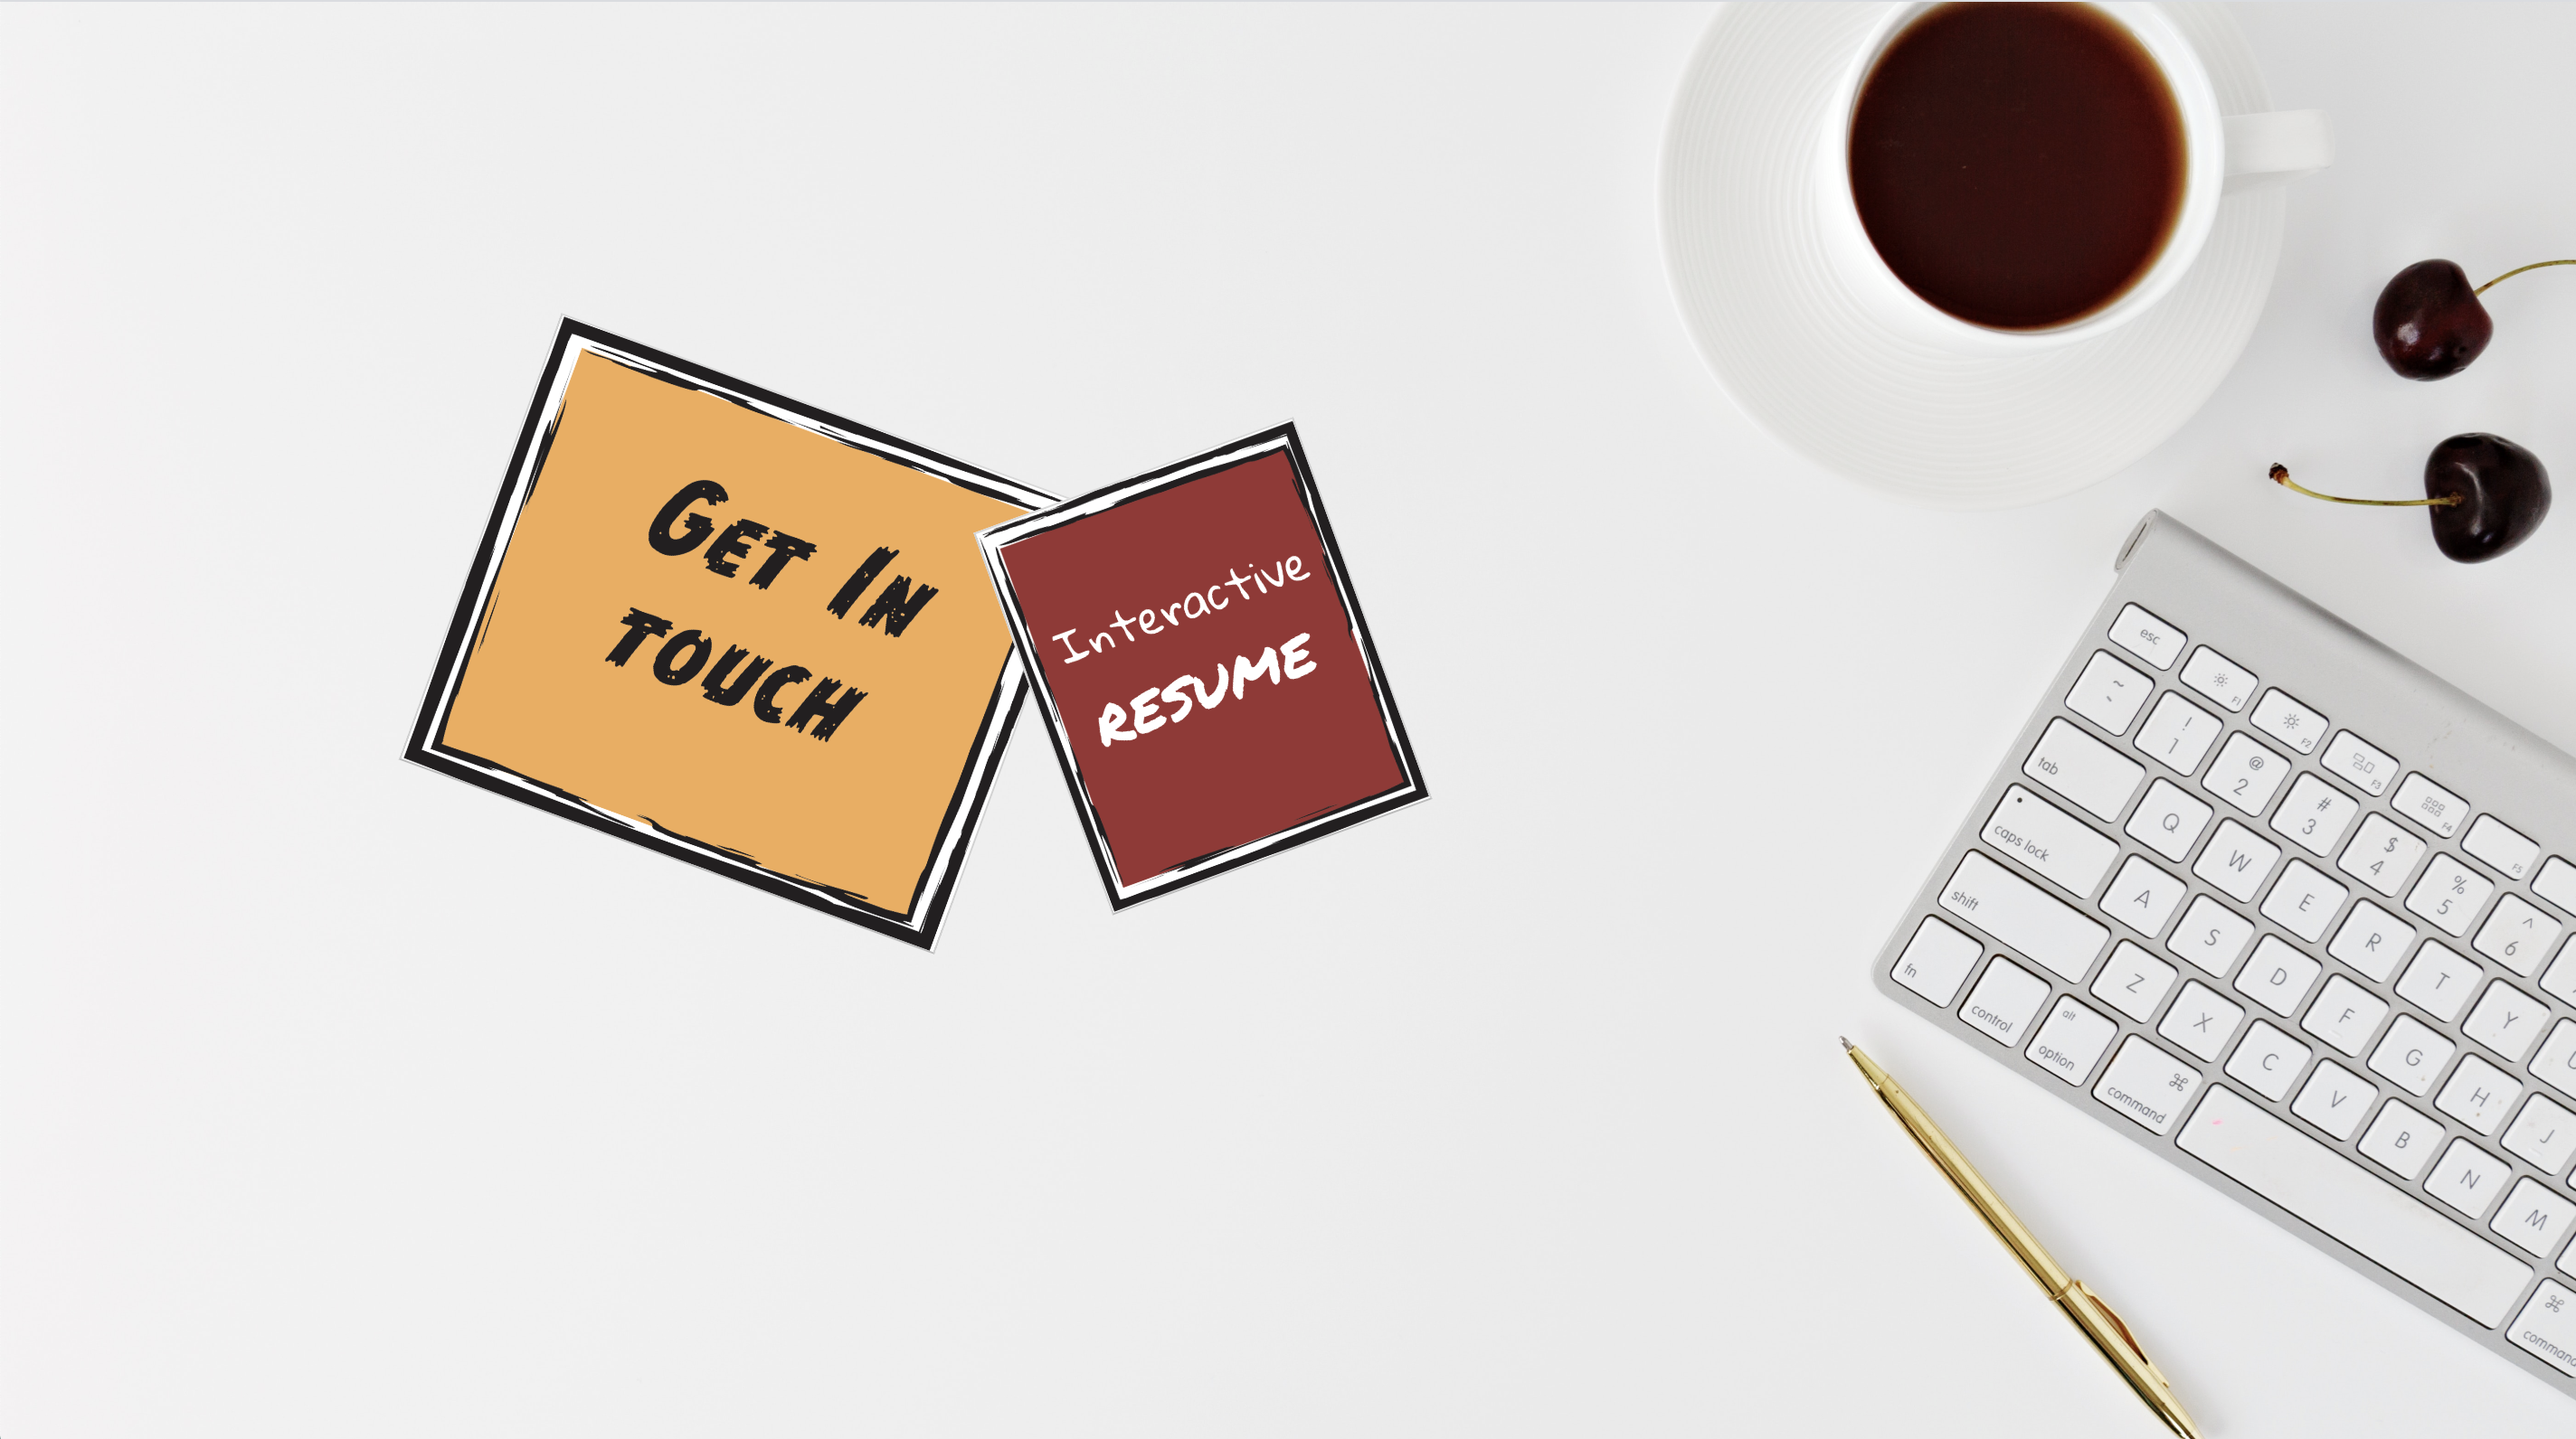
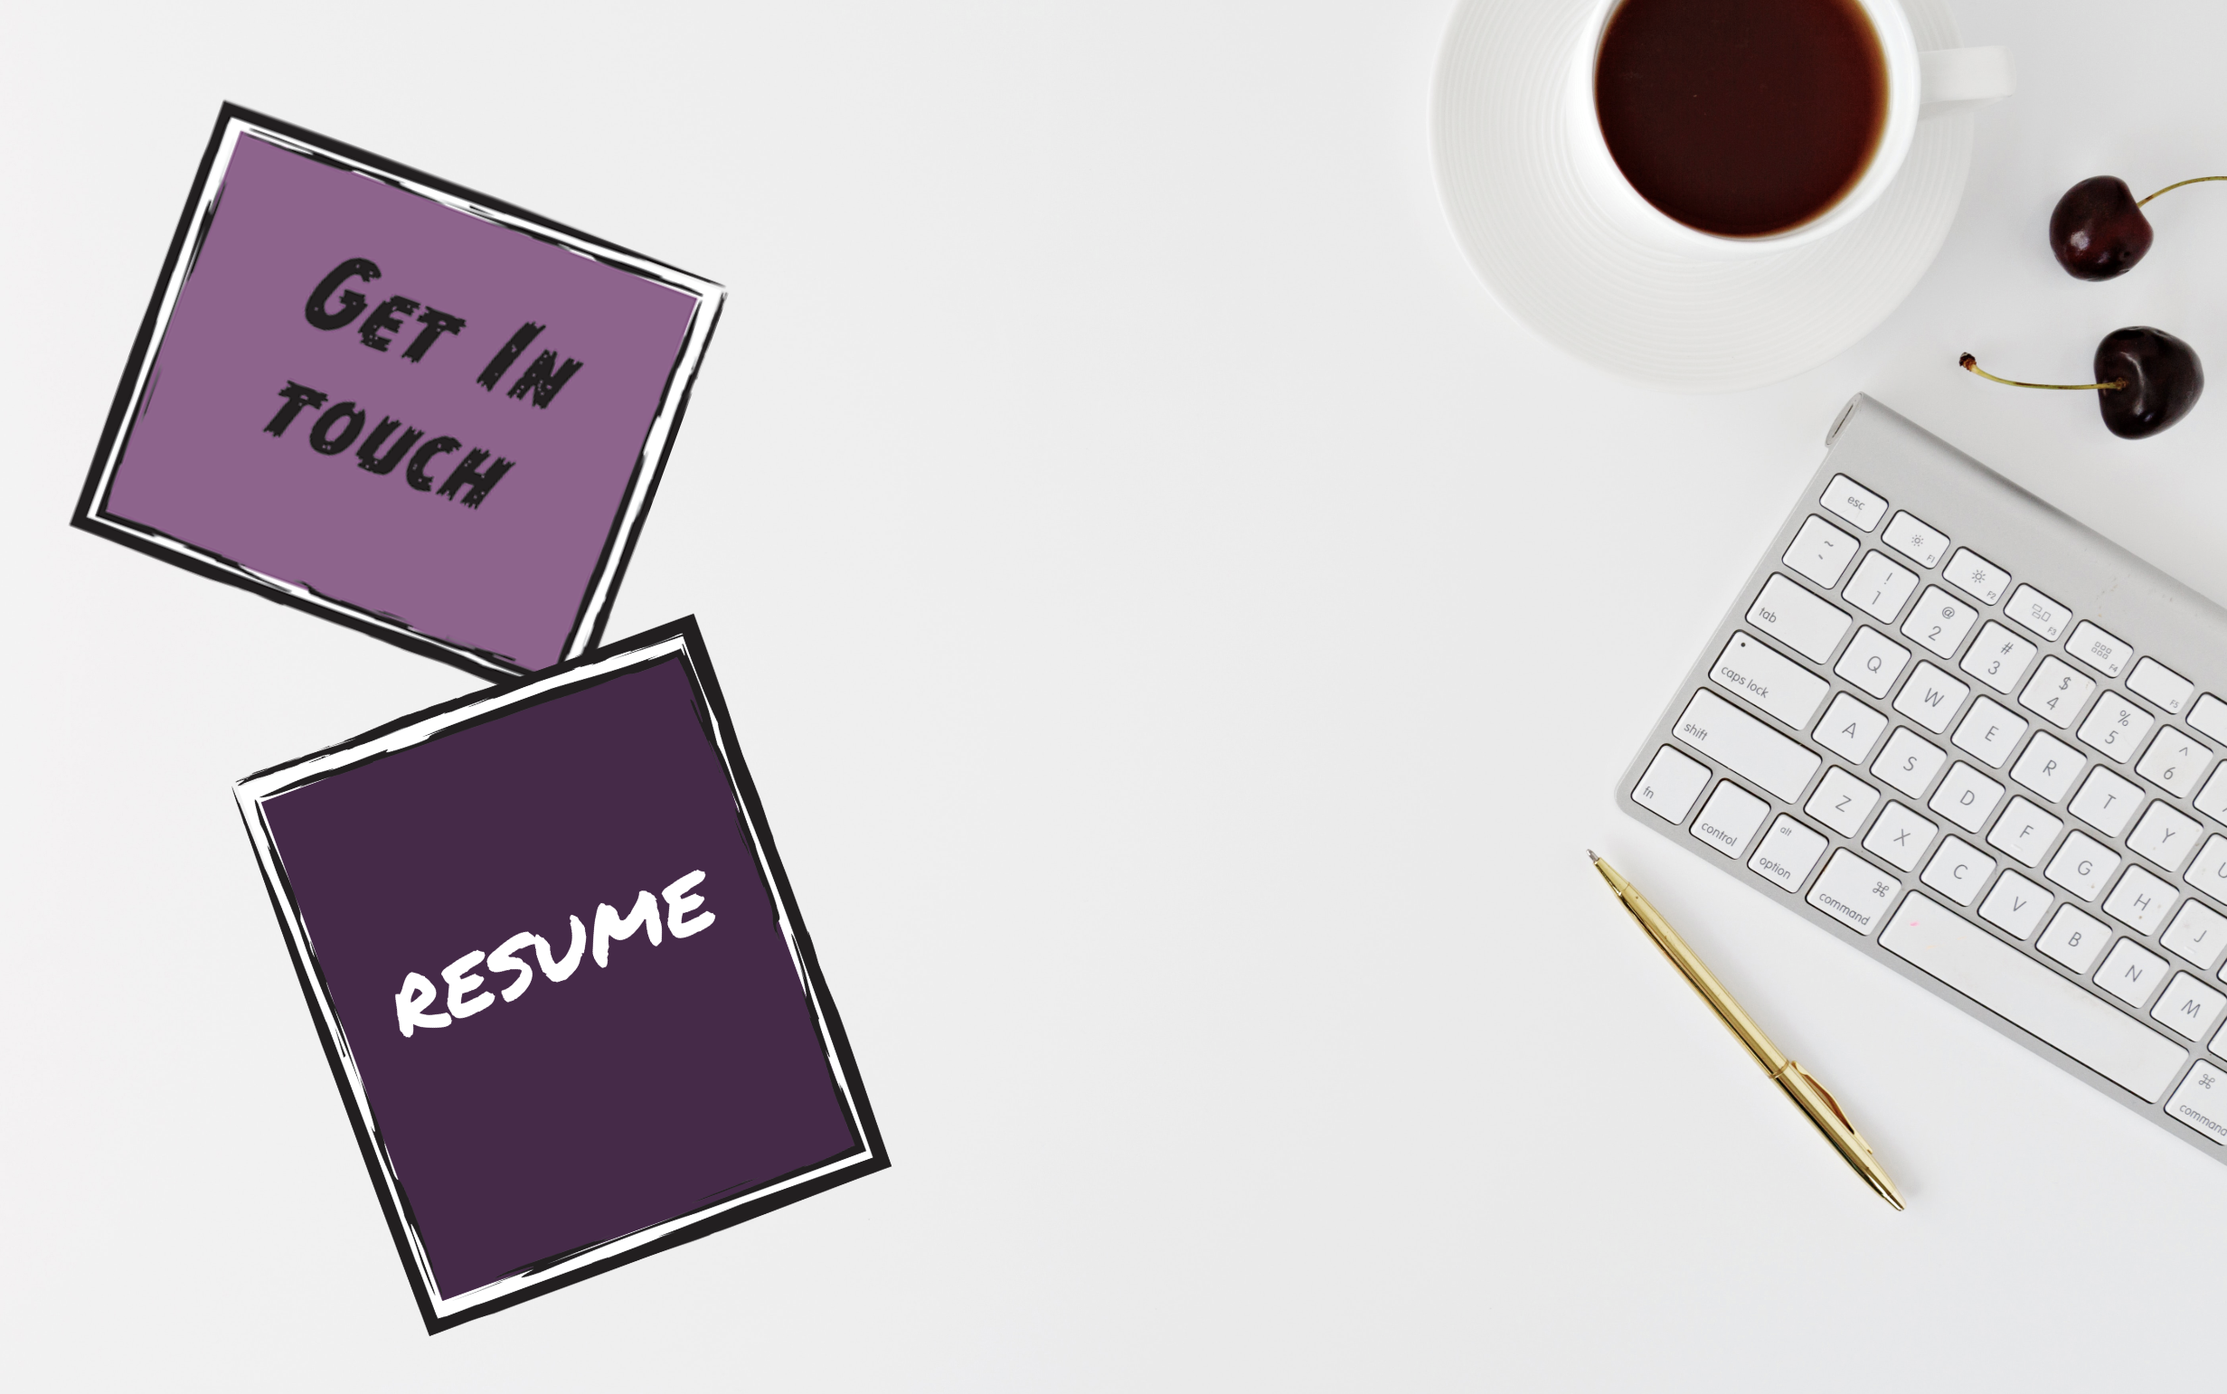
Contact page is responsive

diff --git a/src/components/contact/Email.js b/src/components/contact/Email.js
@@ -1,14 +1,15 @@
+// import cell from "./email_cell.png";
 import email from "./email.png";
 // import cell_image from "./landing_cell.jpg";
 import styled from "styled-components";
 
-const GitHub = styled.button`
+const Email = styled.button`
   background-image: url(${email});
   object-fit: cover;
-  height: 150px;
-  width: 200px;
-  margin-top: 50px;
-  margin-left: 10px;
+  height: 105px;
+  width: 140px;
+  justify-self: end;
+  align-self: end;
   background-color: transparent;
   background-size: cover;
   border: none;
@@ -16,8 +17,20 @@ const GitHub = styled.button`
   &:focus {
     outline: 0;
   }
+  @media screen and (min-width: 600px) {
+    width: 280px;
+    height: 210px;
+  }
+  @media screen and (min-width: 1000px) {
+    height: 227px;
+    width: 300px;
+  }
+  @media screen and (min-width: 1400px) {
+    height: 302px;
+    width: 400px;
+  }
 `;
-export default GitHub;
+export default Email;
 // @media screen and (max-width: 500px) {
 //   background-image: url(${cell_image});
 // }

diff --git a/src/components/contact/Guy.js b/src/components/contact/Guy.js
@@ -1,17 +1,31 @@
-import desktop_guy from "./contact_guy.png";
-// import cell_image from "./landing_cell.jpg";
+import desktop from "./contact_guy_desktop.png";
+import cell from "./contact_guy_cell.png";
+import tablet from "./contact_guy_tablet.png";
 import styled from "styled-components";
 
 const Guy = styled.div`
-  height: 520px;
-  width: 300px;
+  height: 350px;
+  width: 220px;
   position: fixed;
-
+  bottom: 0;
   z-index: 2;
 
-  background-image: url(${desktop_guy});
+  background-image: url(${cell});
 
   background-size: cover;
+  @media screen and (min-width: 600px) {
+    height: 500px;
+    width: 300px;
+  }
+  @media screen and (min-width: 1000px) {
+    background-image: url(${tablet});
+    height: 600px;
+    width: 350px;
+
+    @media screen and (min-width: 1400px) {
+      background-image: url(${desktop});
+      height: 700px;
+      width: 450px;
 `;
 export default Guy;
 // @media screen and (max-width: 500px) {

diff --git a/src/components/contact/GitHub.js b/src/components/contact/GitHub.js
@@ -1,20 +1,32 @@
 import github from "./github.png";
-// import cell_image from "./landing_cell.jpg";
+// import cell from "./github_cell.png";
 import styled from "styled-components";
 
 const GitHub = styled.button`
   background-image: url(${github});
   object-fit: cover;
   margin-left: auto;
-  margin-top: 15px;
+  margin-top: 10px;
   border: none;
-  height: 225px;
-  width: 200px;
+  height: 115px;
+  width: 100px;
   background-color: transparent;
   background-size: cover;
   &:focus {
     outline: 0;
   }
+  @media screen and (min-width: 600px) {
+    height: 230px;
+    width: 200px;
+  }
+  @media screen and (min-width: 1000px) {
+    height: 338px;
+    width: 300px;
+
+    @media screen and (min-width: 1400px) {
+      height: 400px;
+      width: 355px;
+    }
 `;
 export default GitHub;
 // @media screen and (max-width: 500px) {

diff --git a/src/components/contact/LinkedIn.js b/src/components/contact/LinkedIn.js
@@ -1,12 +1,13 @@
+// import cell from "./linkedin_cell.png";
 import linkedin from "./linkedin.png";
-// import cell_image from "./landing_cell.jpg";
+
 import styled from "styled-components";
 
 const LinkedIn = styled.button`
   background-image: url(${linkedin});
   object-fit: cover;
-  height: 202px;
-  width: 200px;
+  height: 100px;
+  width: 100px;
   margin-left: 75px;
   border: none;
   background-color: transparent;
@@ -14,6 +15,18 @@ const LinkedIn = styled.button`
 
   &:focus {
     outline: 0;
+  }
+  @media screen and (min-width: 600px) {
+    height: 200px;
+    width: 200px;
+  }
+  @media screen and (min-width: 1000px) {
+    height: 300px;
+    width: 300px;
+  }
+  @media screen and (min-width: 1400px) {
+    height: 400px;
+    width: 400px;
   }
 `;
 export default LinkedIn;

diff --git a/src/components/contact/Home.js b/src/components/contact/Home.js
@@ -1,20 +1,31 @@
+// import cell from "./home_cell.png";
 import home from "./home.png";
-// import cell_image from "./landing_cell.jpg";
 import styled from "styled-components";
 
 const Home = styled.button`
   background-image: url(${home});
   object-fit: cover;
-  margin-left: auto;
-  margin-right: 200px;
-  height: 145px;
-  width: 190px;
+  height: 100px;
+  width: 130px;
   border: none;
+  justify-self: start;
   background-color: transparent;
   background-size: cover;
 
   &:focus {
     outline: 0;
+  }
+  @media screen and (min-width: 600px) {
+    height: 200px;
+    width: 260px;
+  }
+  @media screen and (min-width: 1000px) {
+    height: 229px;
+    width: 300px;
+  }
+  @media screen and (min-width: 1000px) {
+    height: 305px;
+    width: 400px;
   }
 `;
 export default Home;

diff --git a/src/components/contact/PaintingContainer.js b/src/components/contact/PaintingContainer.js
@@ -1,11 +1,24 @@
 import styled from "styled-components";
 
 const PaintingContainer = styled.div`
-  margin: auto;
-  width: 60vw;
+  width: fit-content;
+  margin-left: auto;
+  margin-right: auto;
   background-color: transparent;
   display: grid;
   grid-template-columns: auto auto;
   grid-gap: 25px;
+
+  @media screen and (min-width: 1000px) {
+    grid-template-columns: 30vw 30vw;
+    grid-gap: 50px;
+  }
 `;
 export default PaintingContainer;
+
+// margin: auto;
+// width: 60vw;
+// background-color: transparent;
+// display: grid;
+// grid-template-columns: auto auto;
+// grid-gap: 25px;

diff --git a/src/components/contact/ContactBackground.js b/src/components/contact/ContactBackground.js
@@ -1,8 +1,9 @@
 import styled from "styled-components";
+import { dark, bg } from "../../styles/colors.js";
 
 const ContactBackground = styled.div`
   height: 100vh;
   width: 100vw;
-  background: linear-gradient(0.9turn, #636363, #0f0f0f);
+  background: linear-gradient(0.2turn, ${dark}, ${bg});
 `;
 export default ContactBackground;

diff --git a/README.md b/README.md
@@ -1,6 +1,6 @@
-# Portfolio and Interactive Resume
+# Portfolio and Resume
 
-I needed a portfolio but as a junior web developer I didn't have much to put it. After a little research I found that some people add an interactive resume to their portfolios, so that is what I've done here.
+I needed a portfolio but as a junior web developer I didn't have much to put it. But this site showcases some responsive design
 
 ## Dependencies
 
@@ -18,6 +18,10 @@ I needed a portfolio but as a junior web developer I didn't have much to put it.
 ### Contact page
 
 !["Contact page"](https://github.com/Lizzyfemme/interactive-resume/blob/master/screenshots/contact.png)
+
+### Resume page
+
+!["Resume page"](https://github.com/Lizzyfemme/interactive-resume/blob/master/screenshots/resume.png)
 
 ## Setup
 
